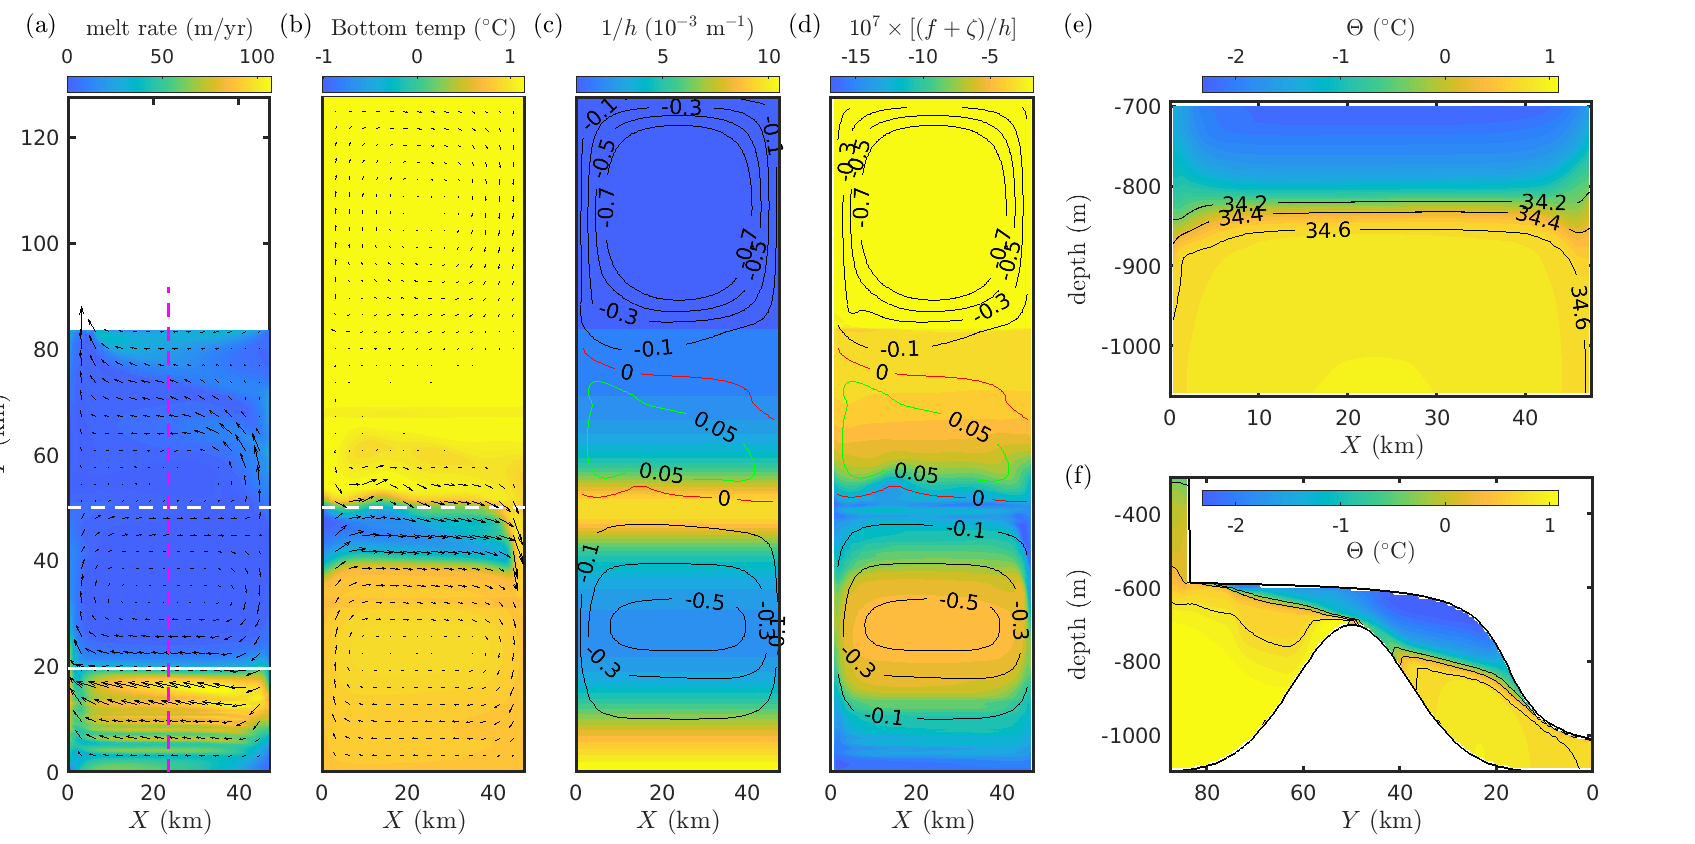
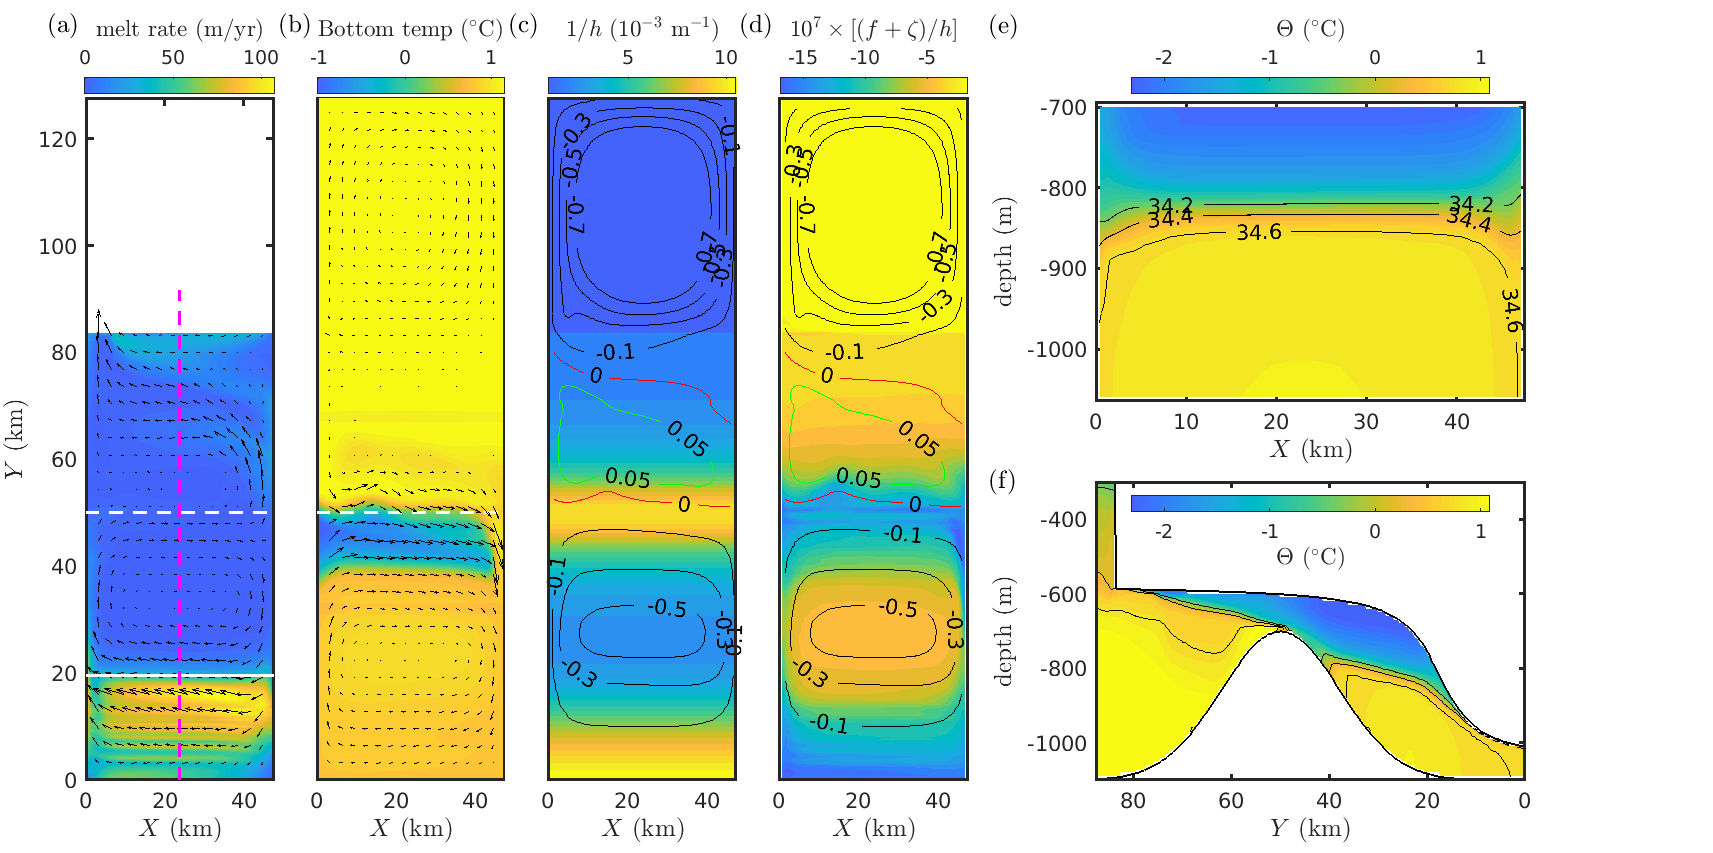
small fig 3 update

diff --git a/make_figures/make_figure3.m b/make_figures/make_figure3.m
@@ -195,11 +195,11 @@ BPV = (f + zeta) ./ H;
 
 
 %%%%%%%%%%%%%%%%%%%%%%%%%%%%% Plots %%%%%%%%%%%%%%%%%%%%%%%
-width = 0.12;
+width = 0.11;
 widthsect = 0.25;
-gap = 0.03;
+gap = 0.025;
 startx = (1 - 5*width - 4*gap)/2 - 0.05;
-startx = 0.04 ; %
+startx = 0.05 ; %
 starty = 0.085;
 height = 0.8;
 heightsmall = 0.35; 
@@ -227,8 +227,8 @@ XX = XX/1e3; YY = YY/1e3;
 velscale =15;
 quiver(XX(idxY, idxX),YY(idxY, idxX),velscale *Ubl(idxX, idxY)', velscale*Vbl(idxX, idxY)', 'autoscale', 'off', 'color', 'k')
 plot(X/1e3, 50*ones(length(X), 1), 'w--', 'linewidth', 1.5)
-plot(X/1e3, Y(EW_idx)*ones(length(X))/1e3, 'c--', 'linewidth', 1.5)
-plot(X(NS_idx)*ones(1,230)/1e3, Y(1:230)/1e3, 'w', 'linewidth', 1.5);
+plot(X/1e3, Y(EW_idx)*ones(length(X))/1e3, 'w', 'linewidth', 1.5)
+plot(X(NS_idx)*ones(1,230)/1e3, Y(1:230)/1e3, 'm--', 'linewidth', 1.5);
 
 %colorbar and arrow
 A = colorbar;
